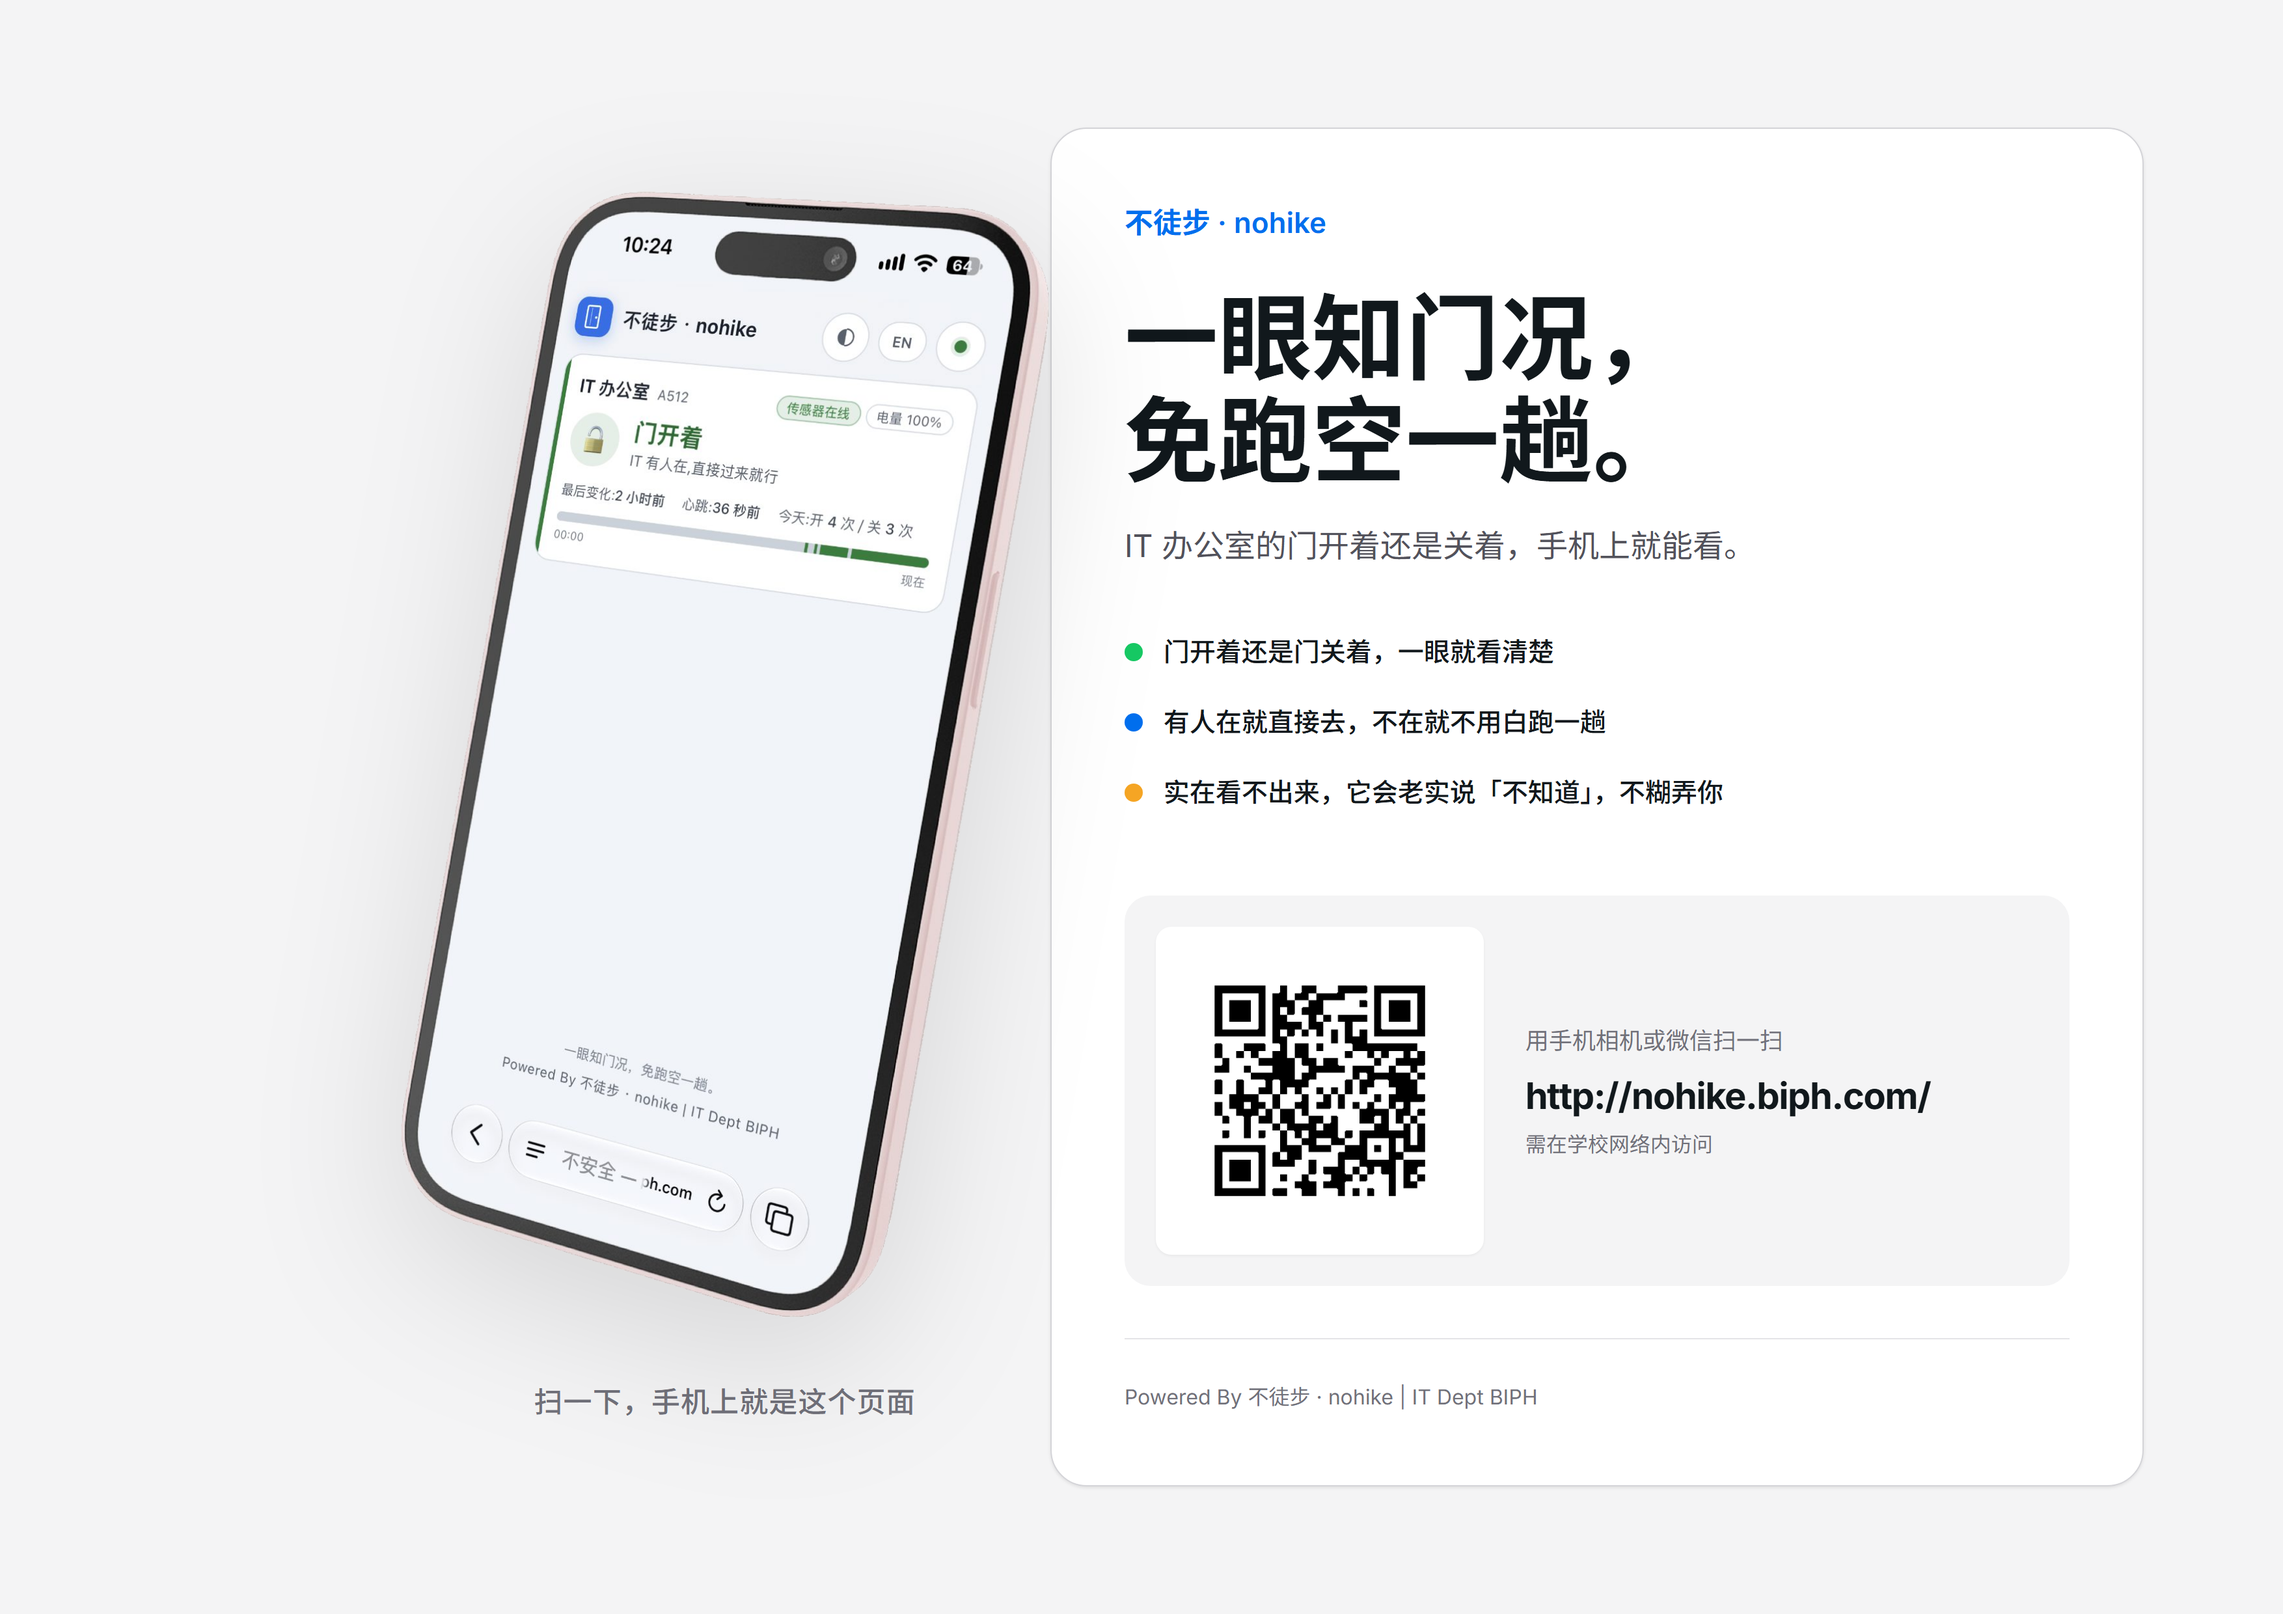
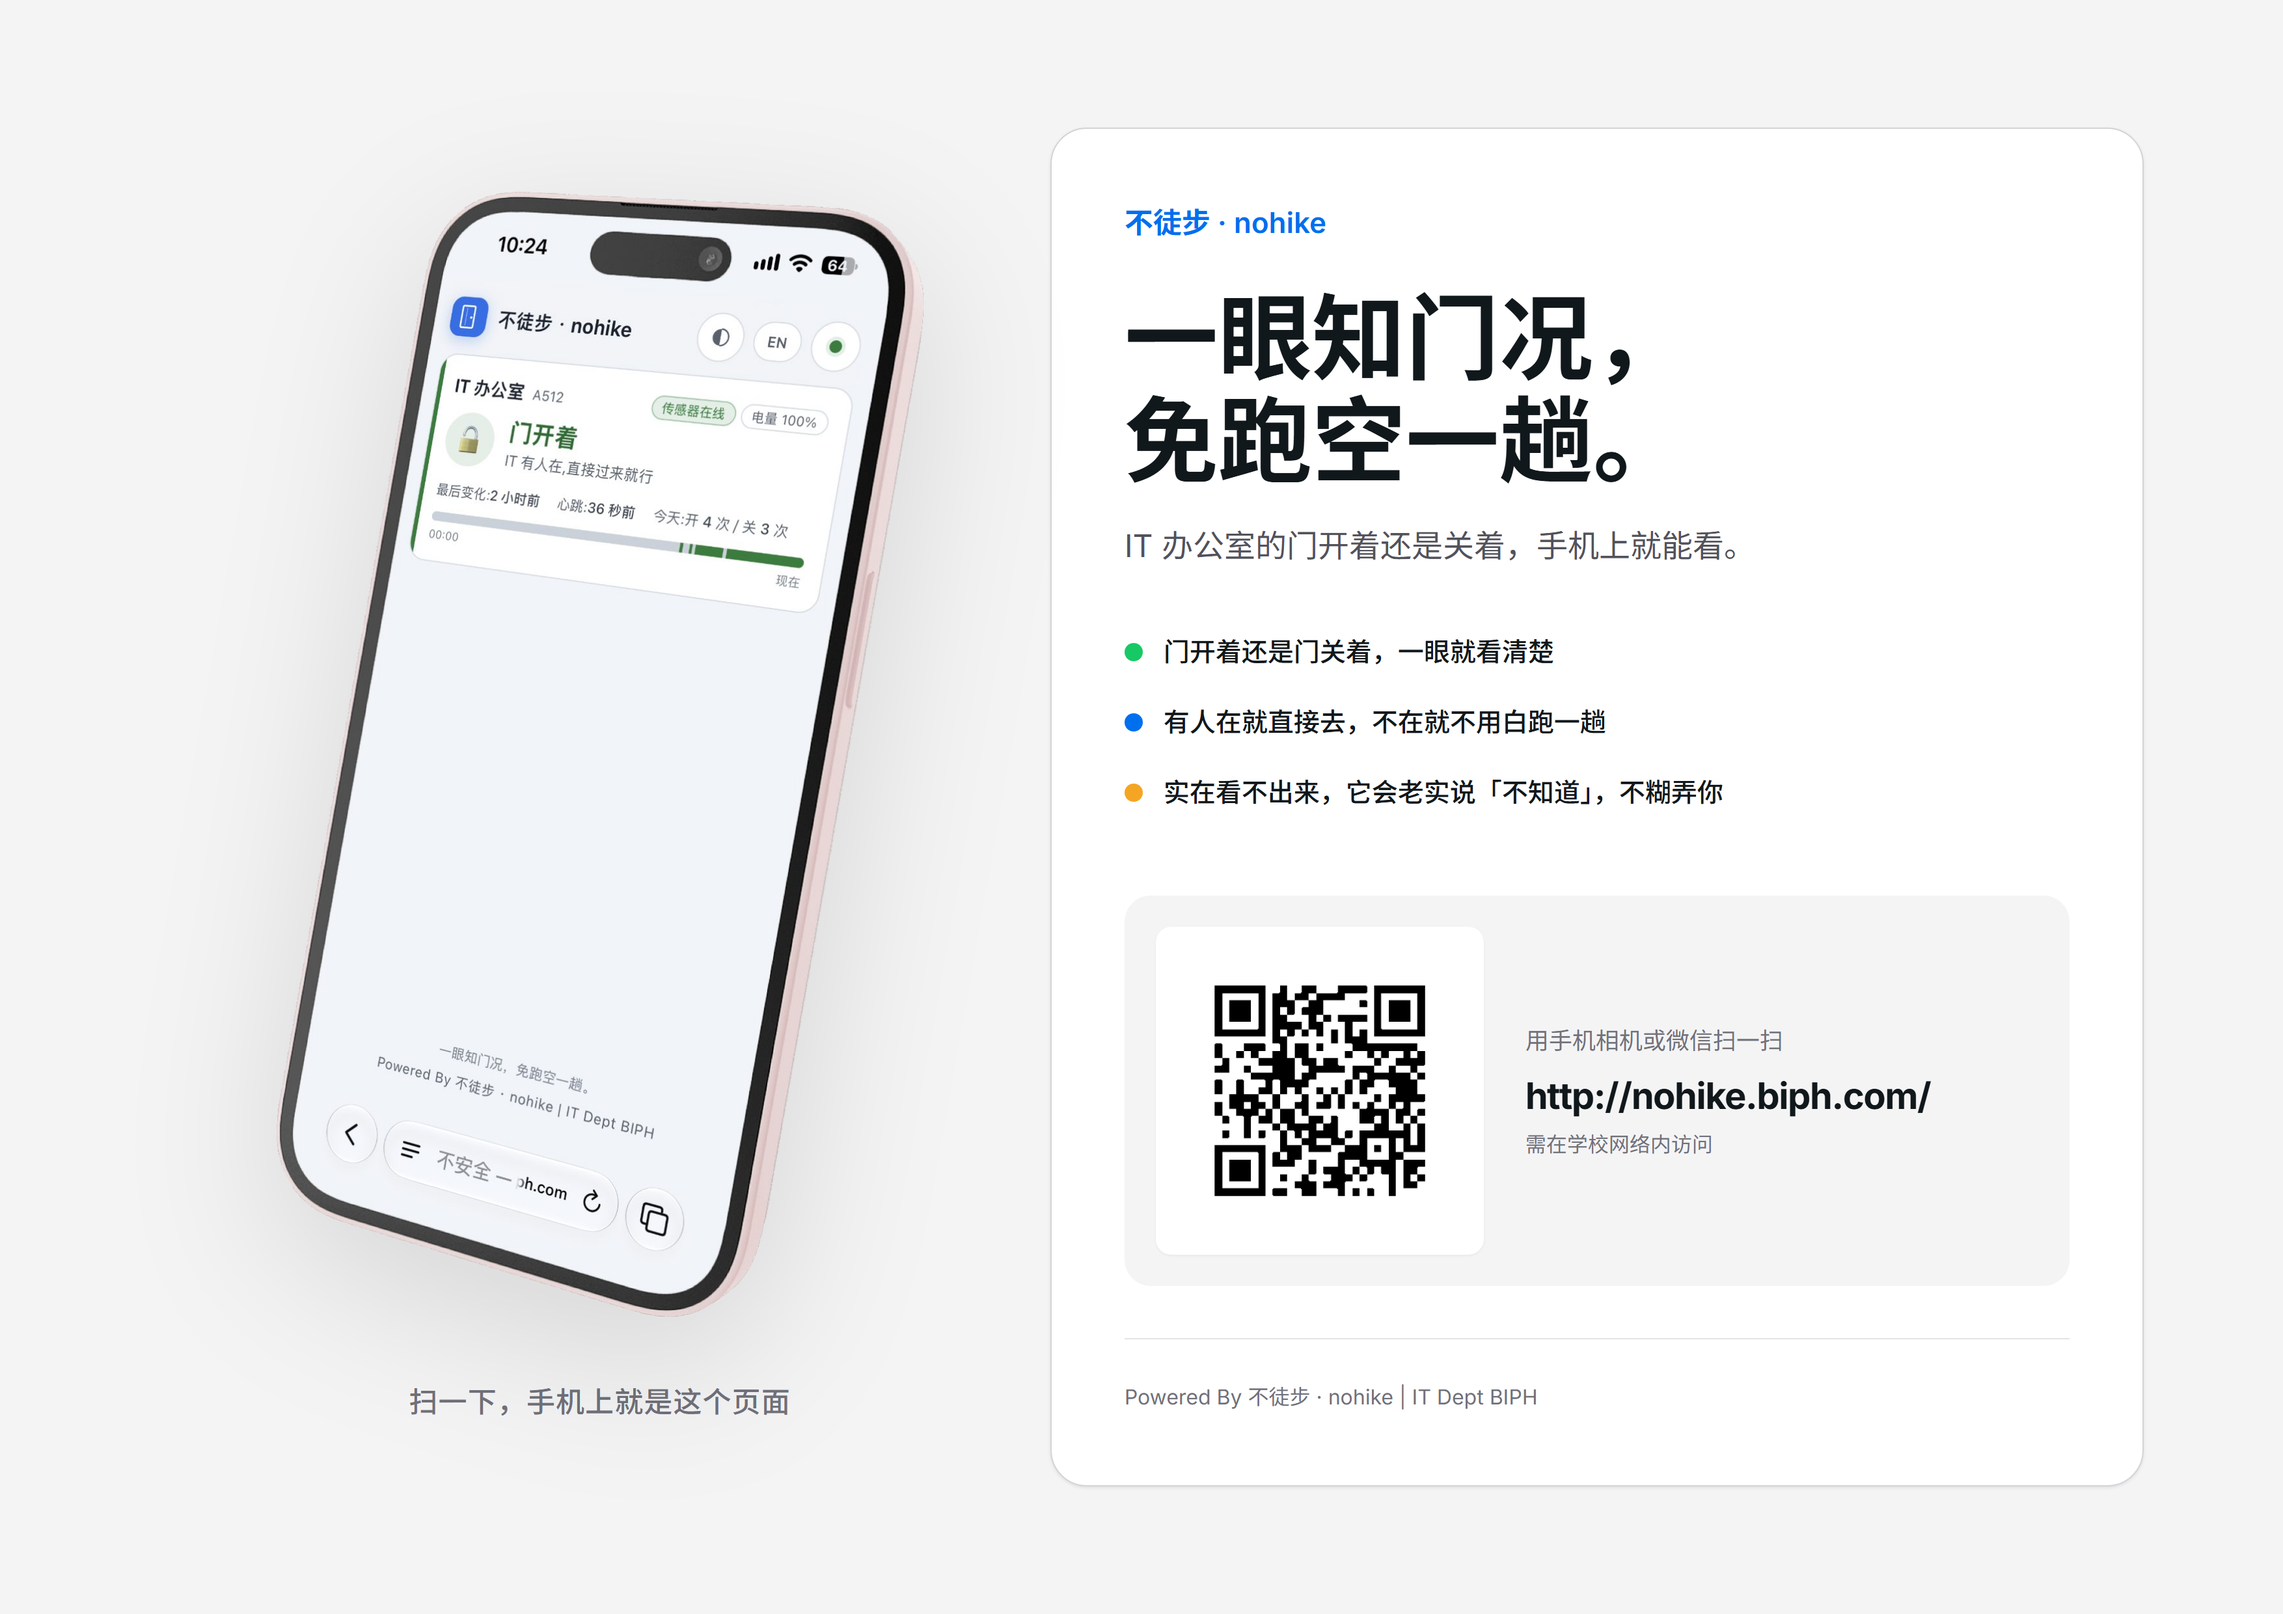
浅色海报:手机与白卡之间留 96px 边距
- 上版手机右边缘零间隙贴着白卡左边缘,看着挤
- 左区加 pr-[96px],手机右缘退到 x=709.8,与白卡左缘 806.8 之间留出 96px
- 手机仍为 500px 宽,文案、二维码、配色一律不动
- 重新渲染 3508×2480 PNG,两张成品图二维码均反解出 http://nohike.biph.com/
- Superdesign 草稿回传为 v5(中英各一张)

Changed region(s): [[0.1243, 0.1242, 0.4661, 0.9004]]

diff --git a/docs/posters/poster-d-light.html b/docs/posters/poster-d-light.html
@@ -1,1 +1,1 @@
-<!DOCTYPE html><html><head><script src="assets/tailwind.js"></script><style>@import url('https://fonts.googleapis.com/css2?family=Inter:wght@400;500;600;700&family=Noto+Sans+SC:wght@400;500;700&display=swap'); body { font-family: 'Inter', 'Noto Sans SC', sans-serif; -webkit-font-smoothing: antialiased; }</style></head><body><div class="w-full h-screen overflow-hidden relative bg-[#f4f4f5] flex items-center select-none" data-sd-id="1"><div class="w-[46%] h-full flex flex-col items-end justify-center relative" data-sd-id="2"><div class="relative flex flex-col items-center" data-sd-id="3"><img src="assets/phone-angle-light-zh.png" alt="Phone Interface" class="w-[500px] object-contain drop-shadow-[0_35px_60px_rgba(0,0,0,0.12)]" data-sd-id="4"><div class="mt-12 text-[#71717a] text-[22px] font-medium tracking-wide" data-sd-id="5">扫一下，手机上就是这个页面</div></div></div><div class="w-[54%] h-full flex items-center justify-start pr-[100px]" data-sd-id="6"><div class="bg-white w-[840px] rounded-[28px] border border-[#d4d4d8] shadow-[0_1px_2px_rgba(0,0,0,0.04),0_1px_3px_rgba(0,0,0,0.06)] p-[56px] flex flex-col" data-sd-id="7"><div class="text-[#006fee] font-semibold text-[22px] mb-8" data-sd-id="8">不徒步 · nohike</div><h1 class="text-[72px] leading-[1.1] font-bold text-[#11181c] mb-6" data-sd-id="9">一眼知门况，<br>免跑空一趟。</h1><p class="text-[24px] text-[#52525b] mb-12" data-sd-id="10">IT 办公室的门开着还是关着，手机上就能看。</p><div class="space-y-6 mb-16" data-sd-id="11"><div class="flex items-center gap-4" data-sd-id="12"><div class="w-[14px] h-[14px] rounded-full bg-[#17c964]" data-sd-id="13"></div><span class="text-[20px] text-[#11181c] font-medium" data-sd-id="14">门开着还是门关着，一眼就看清楚</span></div><div class="flex items-center gap-4" data-sd-id="15"><div class="w-[14px] h-[14px] rounded-full bg-[#006fee]" data-sd-id="16"></div><span class="text-[20px] text-[#11181c] font-medium" data-sd-id="17">有人在就直接去，不在就不用白跑一趟</span></div><div class="flex items-center gap-4" data-sd-id="18"><div class="w-[14px] h-[14px] rounded-full bg-[#f5a524]" data-sd-id="19"></div><span class="text-[20px] text-[#11181c] font-medium" data-sd-id="20">实在看不出来，它会老实说「不知道」，不糊弄你</span></div></div><div class="bg-[#f4f4f5] rounded-[20px] p-6 flex items-center gap-8 mb-10" data-sd-id="21"><div class="bg-white p-4 rounded-xl shadow-sm flex-shrink-0" data-sd-id="22"><img src="assets/qr-nohike.png" alt="QR Code" class="w-[220px] h-[220px]" data-sd-id="23"></div><div class="flex flex-col justify-center" data-sd-id="24"><div class="text-[#71717a] text-[18px] mb-2" data-sd-id="25">用手机相机或微信扫一扫</div><div class="text-[#11181c] text-[28px] font-bold tracking-tight mb-1" data-sd-id="26">http://nohike.biph.com/</div><div class="text-[#71717a] text-[16px]" data-sd-id="27">需在学校网络内访问</div></div></div><div class="pt-8 border-t border-[#e4e4e7] text-[#71717a] text-[16px] flex justify-between items-center" data-sd-id="28"><span data-sd-id="29">Powered By 不徒步 · nohike | IT Dept BIPH</span></div></div></div></div></body></html>
+<!DOCTYPE html><html><head><script src="assets/tailwind.js"></script><style>@import url('https://fonts.googleapis.com/css2?family=Inter:wght@400;500;600;700&family=Noto+Sans+SC:wght@400;500;700&display=swap'); body { font-family: 'Inter', 'Noto Sans SC', sans-serif; -webkit-font-smoothing: antialiased; }</style></head><body><div class="w-full h-screen overflow-hidden relative bg-[#f4f4f5] flex items-center select-none" data-sd-id="1"><div class="w-[46%] h-full flex flex-col items-end justify-center pr-[96px] relative" data-sd-id="2"><div class="relative flex flex-col items-center" data-sd-id="3"><img src="assets/phone-angle-light-zh.png" alt="Phone Interface" class="w-[500px] object-contain drop-shadow-[0_35px_60px_rgba(0,0,0,0.12)]" data-sd-id="4"><div class="mt-12 text-[#71717a] text-[22px] font-medium tracking-wide" data-sd-id="5">扫一下，手机上就是这个页面</div></div></div><div class="w-[54%] h-full flex items-center justify-start pr-[100px]" data-sd-id="6"><div class="bg-white w-[840px] rounded-[28px] border border-[#d4d4d8] shadow-[0_1px_2px_rgba(0,0,0,0.04),0_1px_3px_rgba(0,0,0,0.06)] p-[56px] flex flex-col" data-sd-id="7"><div class="text-[#006fee] font-semibold text-[22px] mb-8" data-sd-id="8">不徒步 · nohike</div><h1 class="text-[72px] leading-[1.1] font-bold text-[#11181c] mb-6" data-sd-id="9">一眼知门况，<br>免跑空一趟。</h1><p class="text-[24px] text-[#52525b] mb-12" data-sd-id="10">IT 办公室的门开着还是关着，手机上就能看。</p><div class="space-y-6 mb-16" data-sd-id="11"><div class="flex items-center gap-4" data-sd-id="12"><div class="w-[14px] h-[14px] rounded-full bg-[#17c964]" data-sd-id="13"></div><span class="text-[20px] text-[#11181c] font-medium" data-sd-id="14">门开着还是门关着，一眼就看清楚</span></div><div class="flex items-center gap-4" data-sd-id="15"><div class="w-[14px] h-[14px] rounded-full bg-[#006fee]" data-sd-id="16"></div><span class="text-[20px] text-[#11181c] font-medium" data-sd-id="17">有人在就直接去，不在就不用白跑一趟</span></div><div class="flex items-center gap-4" data-sd-id="18"><div class="w-[14px] h-[14px] rounded-full bg-[#f5a524]" data-sd-id="19"></div><span class="text-[20px] text-[#11181c] font-medium" data-sd-id="20">实在看不出来，它会老实说「不知道」，不糊弄你</span></div></div><div class="bg-[#f4f4f5] rounded-[20px] p-6 flex items-center gap-8 mb-10" data-sd-id="21"><div class="bg-white p-4 rounded-xl shadow-sm flex-shrink-0" data-sd-id="22"><img src="assets/qr-nohike.png" alt="QR Code" class="w-[220px] h-[220px]" data-sd-id="23"></div><div class="flex flex-col justify-center" data-sd-id="24"><div class="text-[#71717a] text-[18px] mb-2" data-sd-id="25">用手机相机或微信扫一扫</div><div class="text-[#11181c] text-[28px] font-bold tracking-tight mb-1" data-sd-id="26">http://nohike.biph.com/</div><div class="text-[#71717a] text-[16px]" data-sd-id="27">需在学校网络内访问</div></div></div><div class="pt-8 border-t border-[#e4e4e7] text-[#71717a] text-[16px] flex justify-between items-center" data-sd-id="28"><span data-sd-id="29">Powered By 不徒步 · nohike | IT Dept BIPH</span></div></div></div></div></body></html>

diff --git a/docs/posters/poster-d-light-en.html b/docs/posters/poster-d-light-en.html
@@ -29,7 +29,7 @@
   <div class="w-[1754px] h-[1240px] overflow-hidden relative flex" data-sd-id="1">
     
     <!-- LEFT ZONE: Phone Visual (46%) -->
-    <div class="w-[46%] h-full flex flex-col items-end justify-center py-20 pl-20" data-sd-id="2">
+    <div class="w-[46%] h-full flex flex-col items-end justify-center py-20 pl-20 pr-[96px]" data-sd-id="2">
       <div class="relative flex flex-col items-center" data-sd-id="3">
         <img src="assets/phone-angle-light-en.png" class="phone-shadow rotate-0 w-[500px] h-auto object-contain" alt="iPhone Dashboard Preview" data-sd-id="4">
         <p class="mt-12 text-[#71717a] text-[22px] tracking-wide font-medium" data-sd-id="5">Scan — this is what your phone shows</p>
